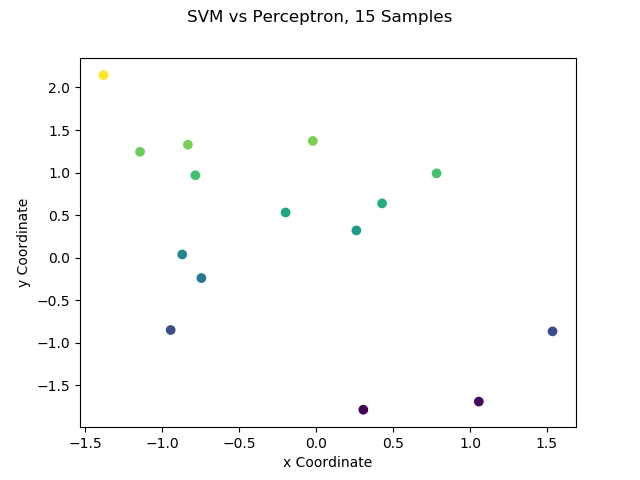
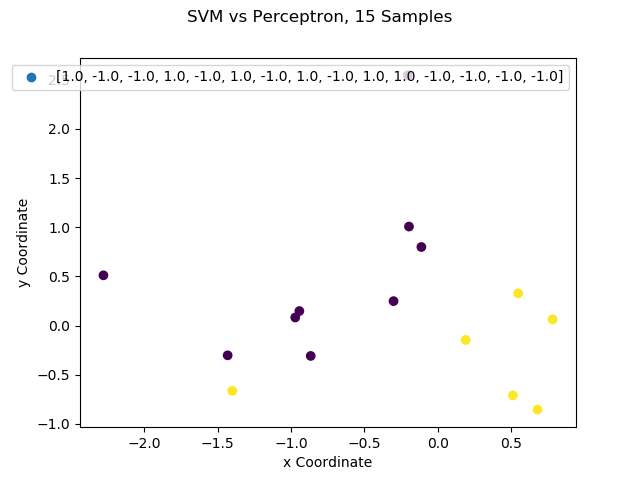
Labels are now working.

diff --git a/Code/comparer.py b/Code/comparer.py
@@ -1,3 +1,5 @@
+import os
+
 import garcon as gc
 import numpy as np
 import pandas as pd
@@ -7,57 +9,62 @@ import matplotlib.pyplot as plt
 
 DIM = 2
 
-FIG_DIR = '..\\Images\\'
-
+FIG_DIR = '../Images/'
 
 class Comparer:
-    def __init__(self):
-        gc.log("Creating comparer")
-        self._perc = pc.perceptron()
-        self._svm = svm.SVC(C=1e10, kernel='linear')
-        self._mu = np.zeros([DIM])
-        self._sig = np.eye(DIM)
+	def __init__(self):
+		gc.log("Creating comparer")
+		self._perc = pc.perceptron()
+		self._svm = svm.SVC(C=1e10, kernel='linear')
+		self._mu = np.zeros([DIM])
+		self._sig = np.eye(DIM)
 
-    def draw_m_points(self, m):
-        return np.random.multivariate_normal(mean=self._mu, cov=self._sig,
-                                             size=m).T
+	def draw_m_points(self, m):
+		return np.random.multivariate_normal(mean=self._mu, cov=self._sig,
+											 size=m).T
 
-    def compare_one(self, m):
-        gc.log("Comparing one")
-        fig = plt.figure()
-        fig.suptitle("SVM vs Perceptron, " + str(m) + " Samples")
-        plt.xlabel('x Coordinate')
-        plt.ylabel('y Coordinate')
-        x, y = self.draw_m_points(m)
-        stacked = np.vstack((x, y)).T
-        gc.log('Stacked shape is ', stacked.shape)
-        labels = [self.true_label(x, y) for x,y in stacked]
-        plt.scatter(x, y, c=labels)
-        # plt.legend()
-        plt.savefig(FIG_DIR + 'svm_vs_perc_' + str(m))
+	def plot_to_file(self, fn):
+		plt.savefig(FIG_DIR + fn)
 
-    def compare_many(self):
-        gc.log("Comparing many")
-        for m in [5, 10, 15, 25, 70]:
-            self.compare_one(m)
-            points = self
+	def true_label(self, x, y):
+		gc.log("Getting true label of " + str(x) + ' and ' + str(y))
+		true_w = np.array([0.3, -0.5])
+		vec = np.array([x, y])
+		true_b = 0.1
+		real_val = np.matmul(true_w, vec) + true_b
+		return np.sign(real_val)
 
-    def plot_to_file(self, fn):
-        plt.savefig(FIG_DIR + fn)
+	def draw_svm_hyp(self):
+		pass
 
-    def true_label(self, x, y):
-        gc.log("Getting true label of ")
-        true_w = np.array([[0.3, -0.5]]).T
-        true_b = 0.1
-        gc.log("w's shape is ", true_w.shape)
-        gc.log("x's shape is ", x.shape)
-        real_val = np.prod(true_w, np.array([x, y])) + true_b
-        return np.sign(real_val)
+	def draw_perc_hyp(self, X, y):
+		self._perc.fit(X, y)
 
+
+	def compare_one(self, m):
+		gc.log("Comparing one")
+		fig = plt.figure()
+		fig.suptitle("SVM vs Perceptron, " + str(m) + " Samples")
+		plt.xlabel('x Coordinate')
+		plt.ylabel('y Coordinate')
+		x, y = self.draw_m_points(m)
+		stacked = np.vstack((x, y)).T
+		labels = [self.true_label(x, y) for x, y in stacked]
+		plt.scatter(x, y, c=labels)
+		draw_svm_hyp(stacked, labels)
+		draw_perc_hyp()
+		plt.legend()
+		plt.savefig(os.path.normpath(FIG_DIR + 'svm_vs_perc_' + str(m)))
+
+	def compare_many(self):
+		gc.log("Comparing many")
+		for m in [5, 10, 15, 25, 70]:
+			self.compare_one(m)
+			points = self
 
 def main():
-    comp = Comparer()
-    comp.compare_many()
-
+	gc.log("Starting program")
+	comp = Comparer()
+	comp.compare_many()
 
 main()
